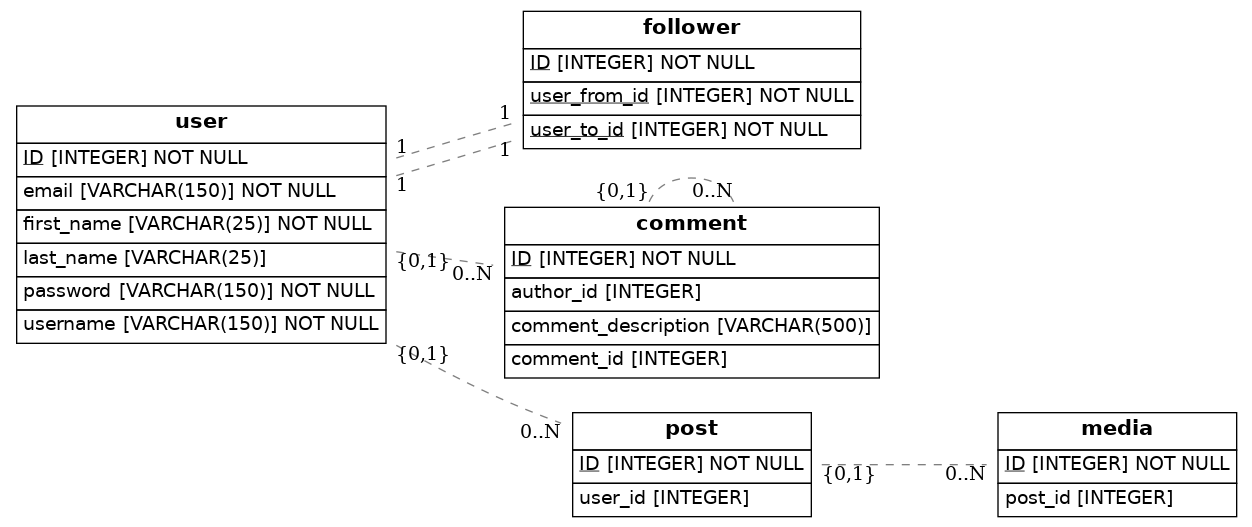
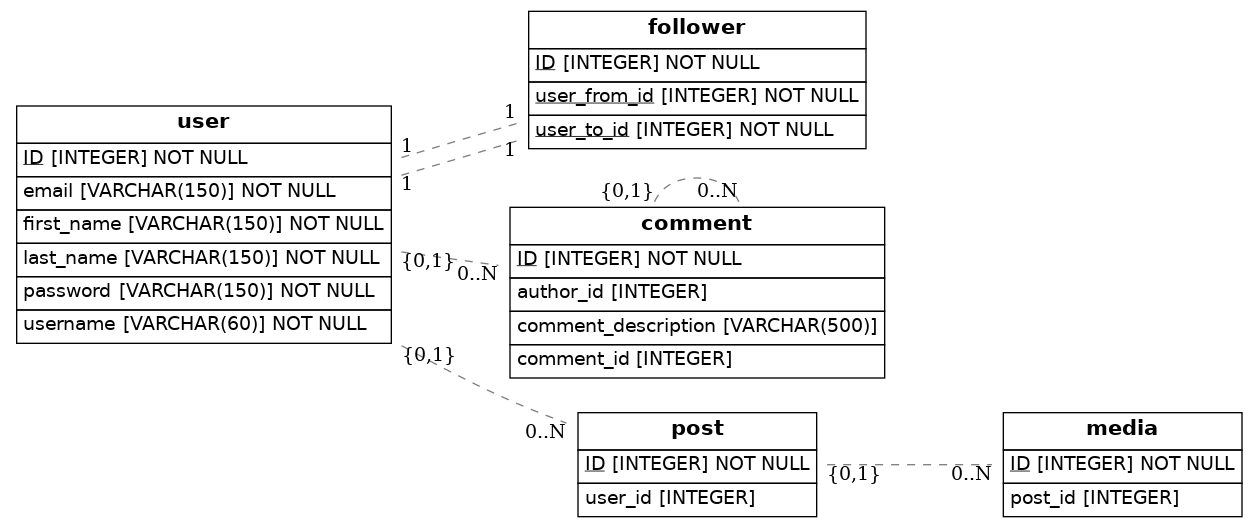
Instagram Data Modeling

diff --git a/src/models.py b/src/models.py
@@ -10,9 +10,9 @@ Base = declarative_base()
 class User(Base):
     __tablename__="user"
     ID = Column(Integer, primary_key=True)
-    username = Column(String(150), nullable=False, unique = True)
-    first_name = Column(String(25), nullable=False)
-    last_name = Column(String(25))    
+    username = Column(String(60), nullable=False, unique = True)
+    first_name = Column(String(150), nullable=False)
+    last_name = Column(String(150), nullable=False)    
     email = Column(String(150), nullable=False, unique = True)
     password = Column(String(150), nullable=False, unique = True)
     user_posting = relationship("post", backref="user")
@@ -40,12 +40,11 @@ class Post (Base):
 class Media(Base):
     __tablename__="media"
     ID = Column(Integer, primary_key = True)
-    type = (String(25))
+    type = (String(50))
     url = (String(150)) #Same string as email/user/password
     post_id = Column(Integer, ForeignKey("post.id"))
 
 
-  
     def to_dict(self):
         return {}
 
